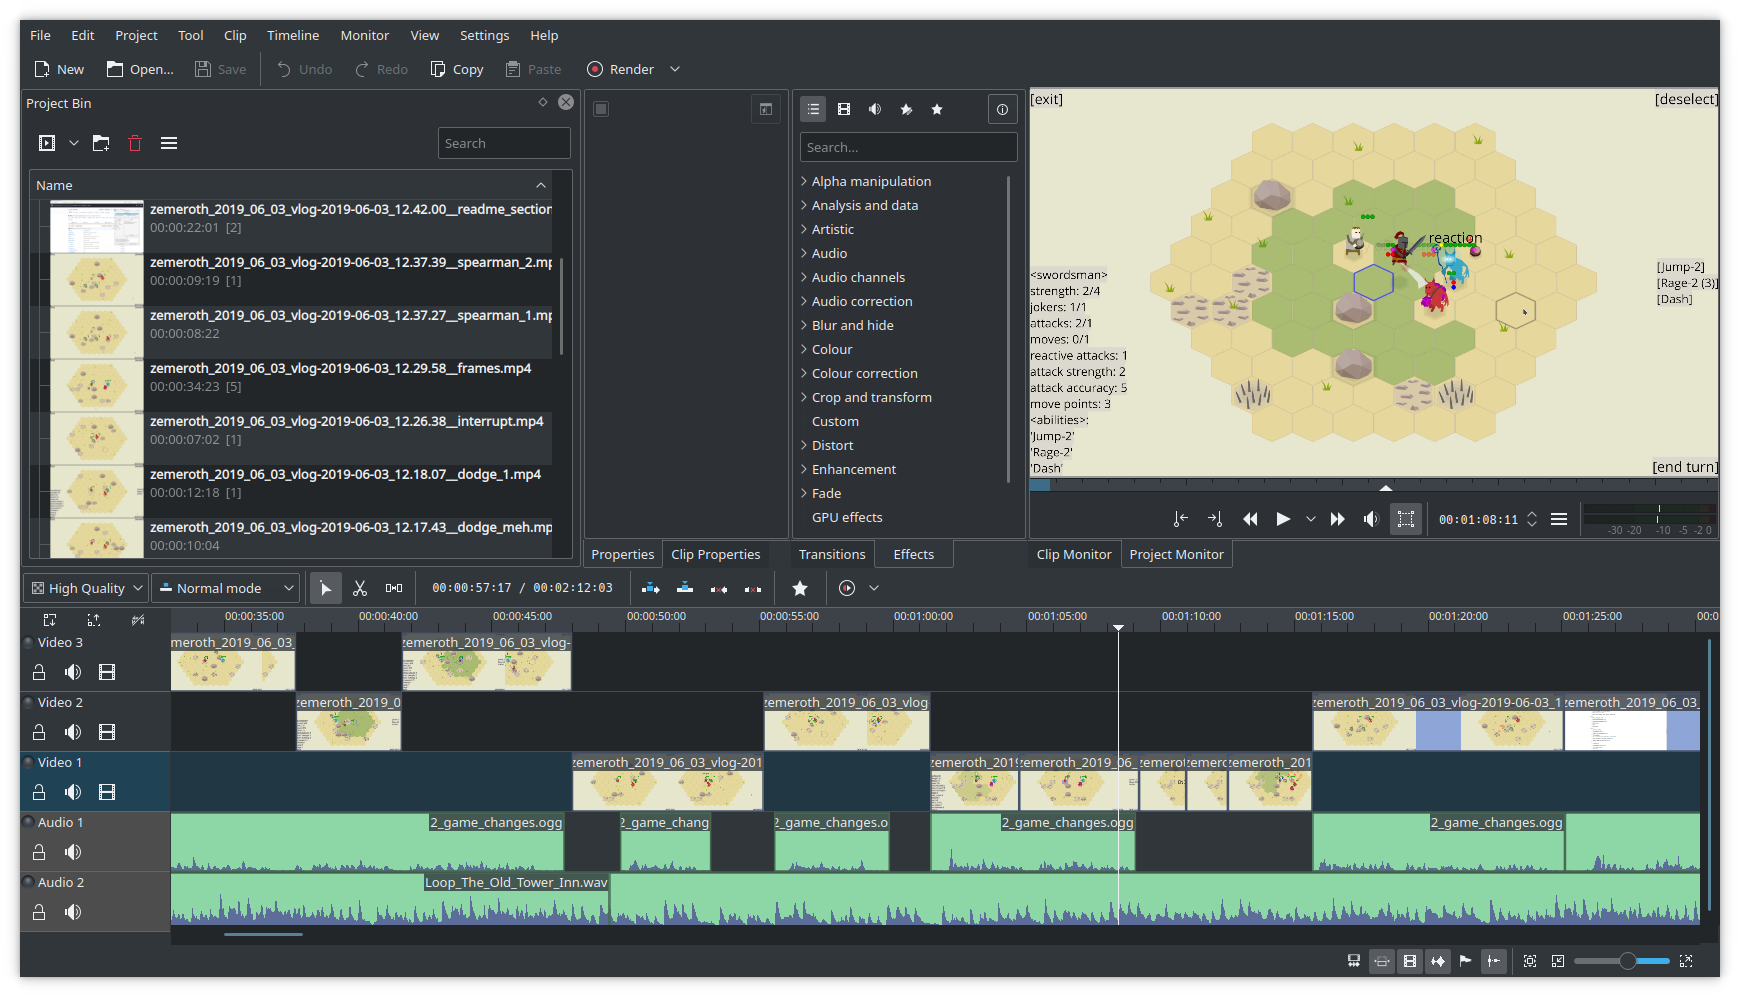
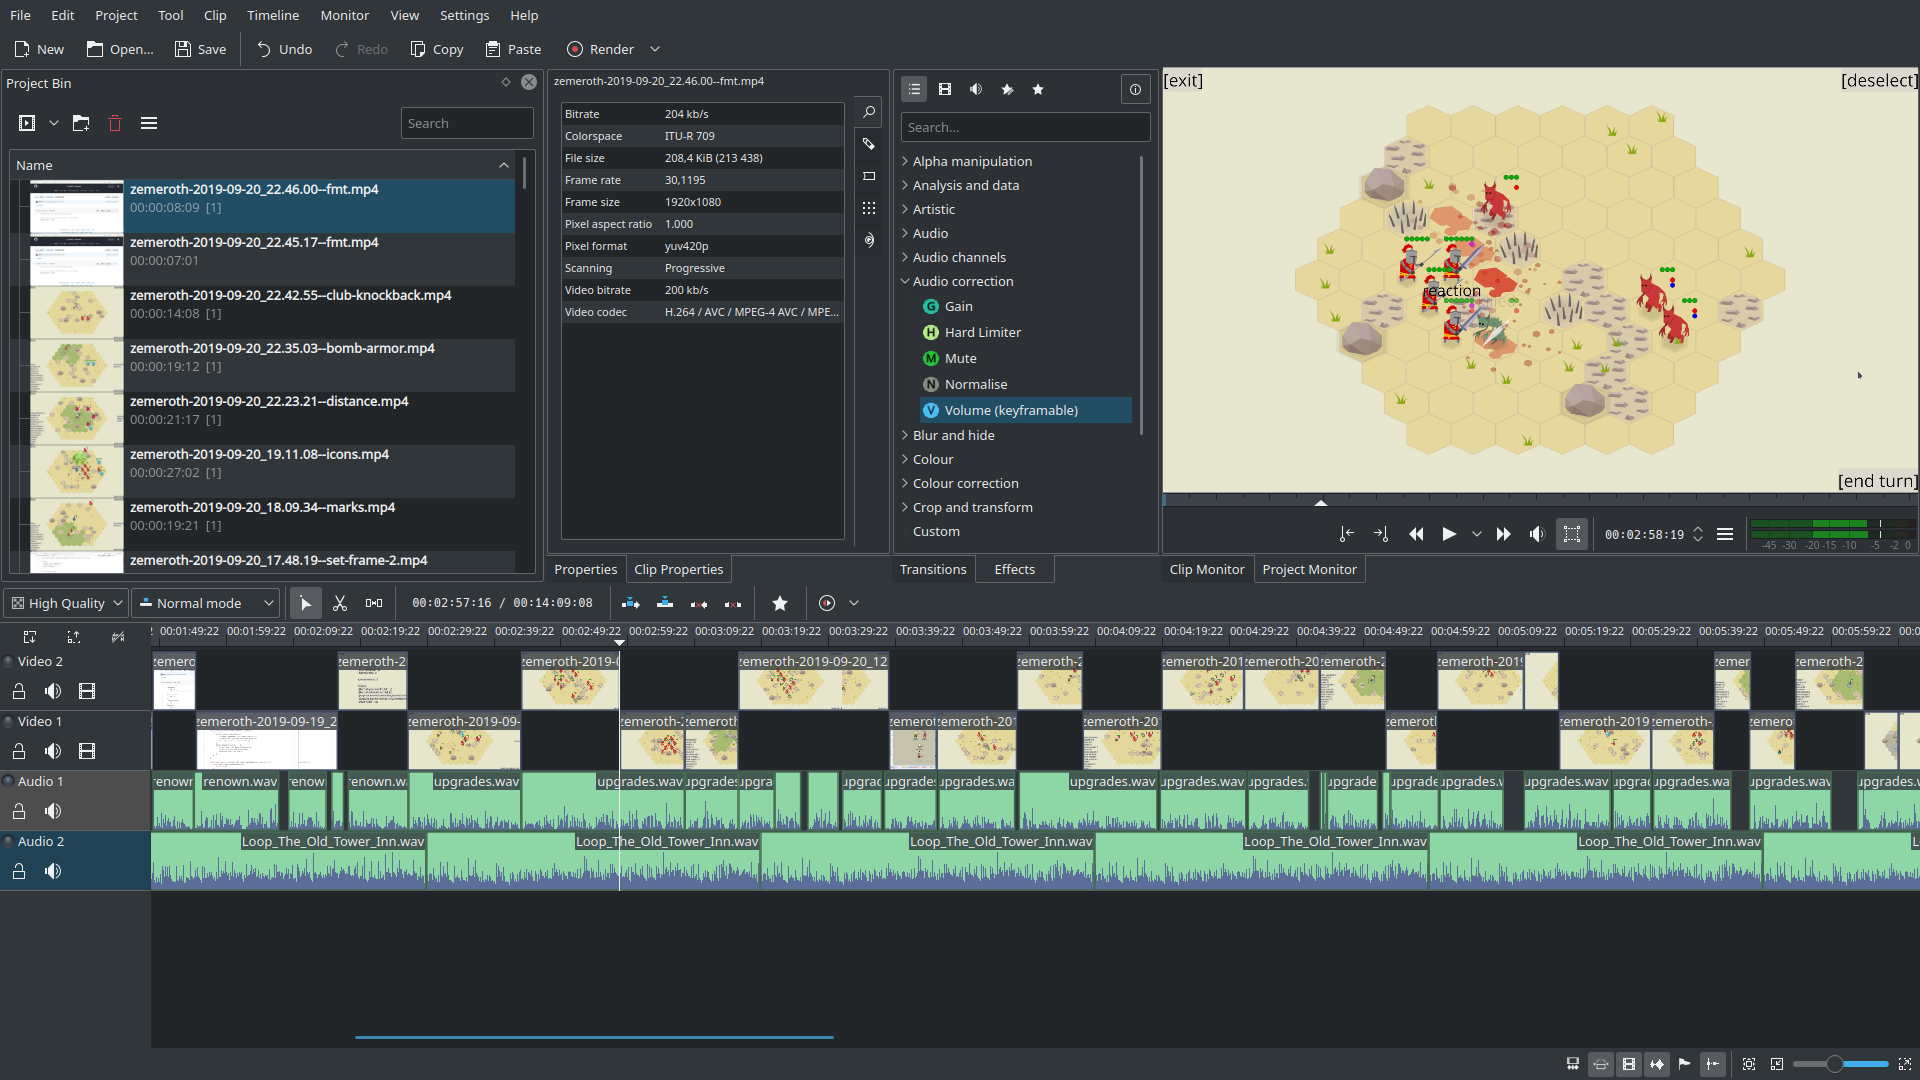
wip

diff --git a/content/2019-09-18--devlog-zemeroth-v0-6/index.md b/content/2019-09-18--devlog-zemeroth-v0-6/index.md
@@ -9,8 +9,8 @@ slug = "2019-09-18--devlog-zemeroth-v0-6"
 
 Hi, folks! I'm happy to announce **Zemeroth v0.6**.
 Main features of this release are:
-renown and fighter upgrades, possessions, status effect icons,
-and sprite frames and flips.
+renown and fighter upgrades, possessions, sprite frames and flips,
+and status effect icons.
 
 ![Title image showing new fighter types, icons, explosions, etc](title-screenshot.png)
 
@@ -30,15 +30,13 @@ Actually, I only managed to publish one such update:
 drafts for second and third updates were never finished.
 So, I decided to cancel my attempts at making weeklies and
 squashed all the "weekly" text drafts together
-into this normal announcement post.
+into this larger announcement post.
 
 Video drafts were also squashed into
 **[a video version of this post][YouTube devlog]**,
 check it out:
 
-<!-- **TODO**: **{YouTube video}** -->
-
-[![TODO](youtube-devlog-screenshot-REPLACE.png)][YouTube devlog] <!--TODO-->
+[![YouTube vide preview](youtube-devlog-screenshot.png)][YouTube devlog]
 
 So, what does this release add to the game?
 
@@ -47,7 +45,7 @@ So, what does this release add to the game?
 [itch_zemeroth]: https://ozkriff.itch.io/zemeroth
 [release v0.6]: https://github.com/ozkriff/zemeroth/releases/tag/v0.6.0
 [zemeroth weekly]: https://users.rust-lang.org/t/zemeroth-a-2d-turn-based-strategy-game/28311/5
-[YouTube devlog]: https://TODO.todo
+[YouTube devlog]: https://www.youtube.com/watch?v=6tZByt4LBlU
 
 ## Renown and Fighter Upgrades
 
@@ -57,14 +55,13 @@ the renown system and fighter upgrades.
 "Renown" is the currency of the campaign mode
 that the player receives by winning battles
 and spends on recruiting and upgrading their fighters between battles.
-The term obviously borrowed from [Banner Saga].
+The term is obviously borrowed from [Banner Saga].
 
 Updated campaign menu looks like this:
 
 ![a screenshot of campaign menu](campaign-menu.png)
 
-Now it shows not only the player's last battle casualties
-and their current fighters
+Now it shows not only the last battle casualties and their current fighters
 but also their current renown and a list of possible actions
 with their costs (in renown).
 
@@ -126,7 +123,7 @@ that looks like this:
     // . . .
 ```
 
-Recruitment cost consists is a basic type cost
+Recruitment cost consists of a basic type cost
 plus a group size penalty (the player's fighters count).
 The penalty is added because the intended size of the group
 is four to six fighters.
@@ -209,7 +206,7 @@ add more nodes in future versions):
   - **healer** - heals more points with a 2 turns cooldown
     and can throw only Poison Bomb.
     Also, can do double moves in one turn for cases
-    when the wounded fighter in on the other side of the map.
+    when the wounded fighter is on the other side of the map.
   - **firer** - can't heal anyone,
     but can do mass destruction by throwing exploding and fire bombs.
 
@@ -232,8 +229,6 @@ so the situation described in this [itch.io review] won't repeat:
 [implicit_some]: https://github.com/ron-rs/ron/blob/master/docs/extensions.md#implicit_some
 [objects.ron]: https://github.com/ozkriff/zemeroth_assets/blob/master/objects.ron
 [itch.io review]: https://itch.io/post/660275
-
-<!-- ^ **TODO**: upgrade the commit (use v0.6's final commit) -->
 
 ## Agent's Info Screen
 
@@ -288,7 +283,7 @@ There're many small visual improvements in this release.
 First, a tile under the cursor is highlighted now
 when using a mouse (it was requested by many playtesters).
 It makes no sense do this with touch inputs because
-the user will just constantly see the latest tile he touched,
+the user will just constantly see the latest tile they touched,
 so the feature only works when input event's delta movement isn't zero.
 
 ![demo of the tile highlighting](tile-highlighting.gif)
@@ -541,19 +536,7 @@ Thanks, folks!
 [pr495]: https://github.com/ozkriff/zemeroth/pull/495
 [pr514]: https://github.com/ozkriff/zemeroth/pull/514
 [i492]: https://github.com/ozkriff/zemeroth/issues/492
-[inspiration]: https://github.com/ozkriff/zemeroth/blob/0e789a546/README.md#inspiration
-
-<!--
-## Gameplay Video
-
-**TODO**: _Record a gameplay video._
-
-Putting all these changes together:
-
-[![gameplay](gameplay-video-preview.png)](TODO)
-
-**TODO**: _Add some short description._
--->
+[inspiration]: https://github.com/ozkriff/zemeroth/blob/8586ef2ac/README.md#inspiration
 
 ## Text Logo
 
@@ -624,7 +607,7 @@ so it makes sense to add a few notes about my current routine to the devlog.
 
 Ideally, I'd like to do record a live demo without a strict script,
 but speaking to the camera when you're not used to it is quite stressful
-and additionally I'm not comfortable enough with English.
+and additionally I'm not quite comfortable with English.
 I've tried a few times to record the whole video "live" in one piece
 and it totally failed for me.
 
@@ -650,9 +633,7 @@ and it seems to do all the basic stuff that I need:
 cut/match the video clips to the voiceover
 and add some background music.
 
-![TODO: UPDATE THIS SCREENSHOT](kdenlive.png)
-<!-- 
-The volume level turned out to be a hard thing. -->
+![Kdenlive screenshot](kdenlive.png)
 
 Finally, I prepare and add subtitles.
 There're at least three reasons to do this:
@@ -663,6 +644,9 @@ and tweak the timings a little bit.
 
 And that's it, the video is done and can be uploaded to [YouTube][ozkriff YouTube].
 
+I'm not completely happy with the quality of the 0.6 announcement video,
+but I guess it's only a question of practice.
+
 [audacity]: https://audacityteam.org
 [kdenlive]: https://kdenlive.org
 [SimpleScreenRecorder]: https://en.wikipedia.org/wiki/SimpleScreenRecorder
@@ -671,9 +655,7 @@ And that's it, the video is done and can be uploaded to [YouTube][ozkriff YouTub
 
 ------
 
-<!-- (**TODO**:
-_Don't forget to check that the last image in the post looks cool:_
-_Reddit will use it as a preview._) -->
+![just silly final gif](final-sequence.gif)
 
 That's all for today, thanks for reading!
 
